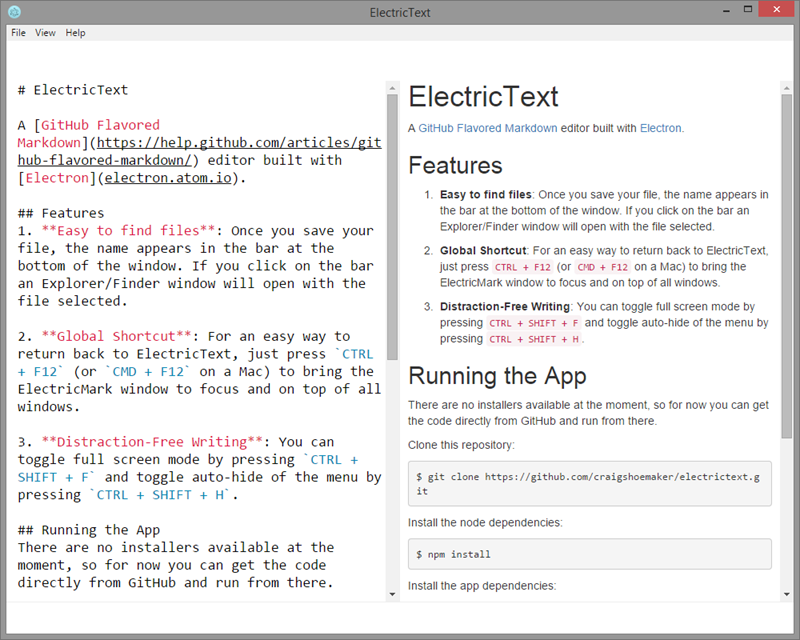
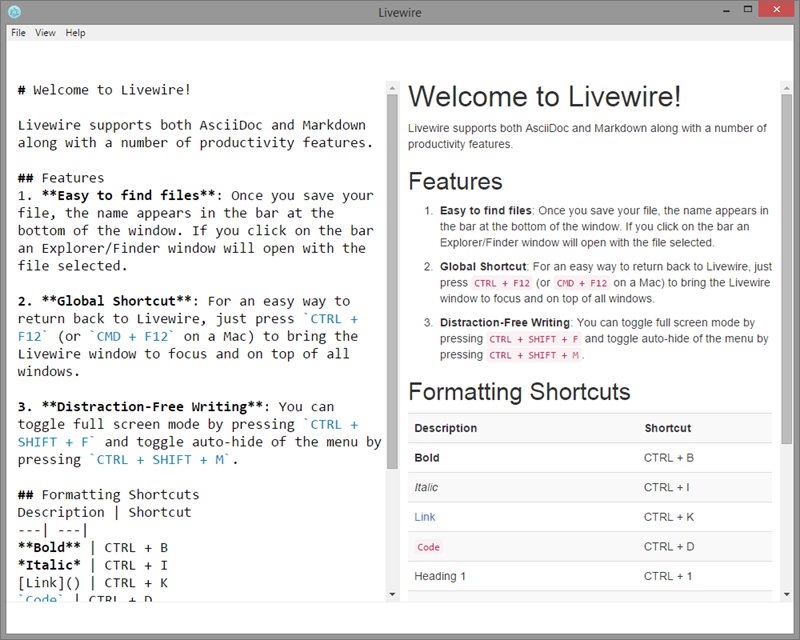
name change

Changed region(s): [[0.0, 0.125, 0.9688, 0.9375], [0.0, 0.125, 0.25, 0.1562], [0.4688, 0.0, 0.5312, 0.0312]]

diff --git a/app/index.html b/app/index.html
@@ -4,7 +4,7 @@
 		<link rel="stylesheet" type="text/css" href="./bower_components/bootstrap/dist/css/bootstrap.css" />
 		<link rel="stylesheet" type="text/css" href="./bower_components/font-awesome/css/font-awesome.css" />
 		<link rel="stylesheet" type="text/css" href="index.css" />
-		<title>ElectricText</title>
+		<title>Livewire</title>
 	</head>
     <body>
 		<div id="editor-container">

diff --git a/readme.md b/readme.md
@@ -1,4 +1,4 @@
-# ElectricText
+# Livewire
 
 A [AsciiDoc](http://www.methods.co.nz/asciidoc/) and [GitHub Flavored Markdown](https://help.github.com/articles/github-flavored-markdown/) editor built with [Electron](electron.atom.io).
 
@@ -7,7 +7,7 @@ A [AsciiDoc](http://www.methods.co.nz/asciidoc/) and [GitHub Flavored Markdown](
 ## Features
 1. **Easy to find files**: Once you save your file, the name appears in the bar at the bottom of the window. If you click on the bar an Explorer/Finder window will open with the file selected.
 
-2. **Global Shortcut**: For an easy way to return back to ElectricText, just press `CTRL + F12` (or `CMD + F12` on a Mac) to bring the ElectricText window to focus and on top of all windows. 
+2. **Global Shortcut**: For an easy way to return back to Livewire, just press `CTRL + F12` (or `CMD + F12` on a Mac) to bring the Livewire window to focus and on top of all windows. 
 
 3. **Distraction-Free Writing**: You can toggle full screen mode by pressing `CTRL + SHIFT + F` and toggle auto-hide of the menu by pressing `CTRL + SHIFT + M`.
 
@@ -33,7 +33,7 @@ There are no installers available at the moment, so for now you can get the code
 
 Clone this repository:
 
-    $ git clone https://github.com/craigshoemaker/electrictext.git
+    $ git clone https://github.com/craigshoemaker/Livewire.git
     
 Install the node dependencies:
 
